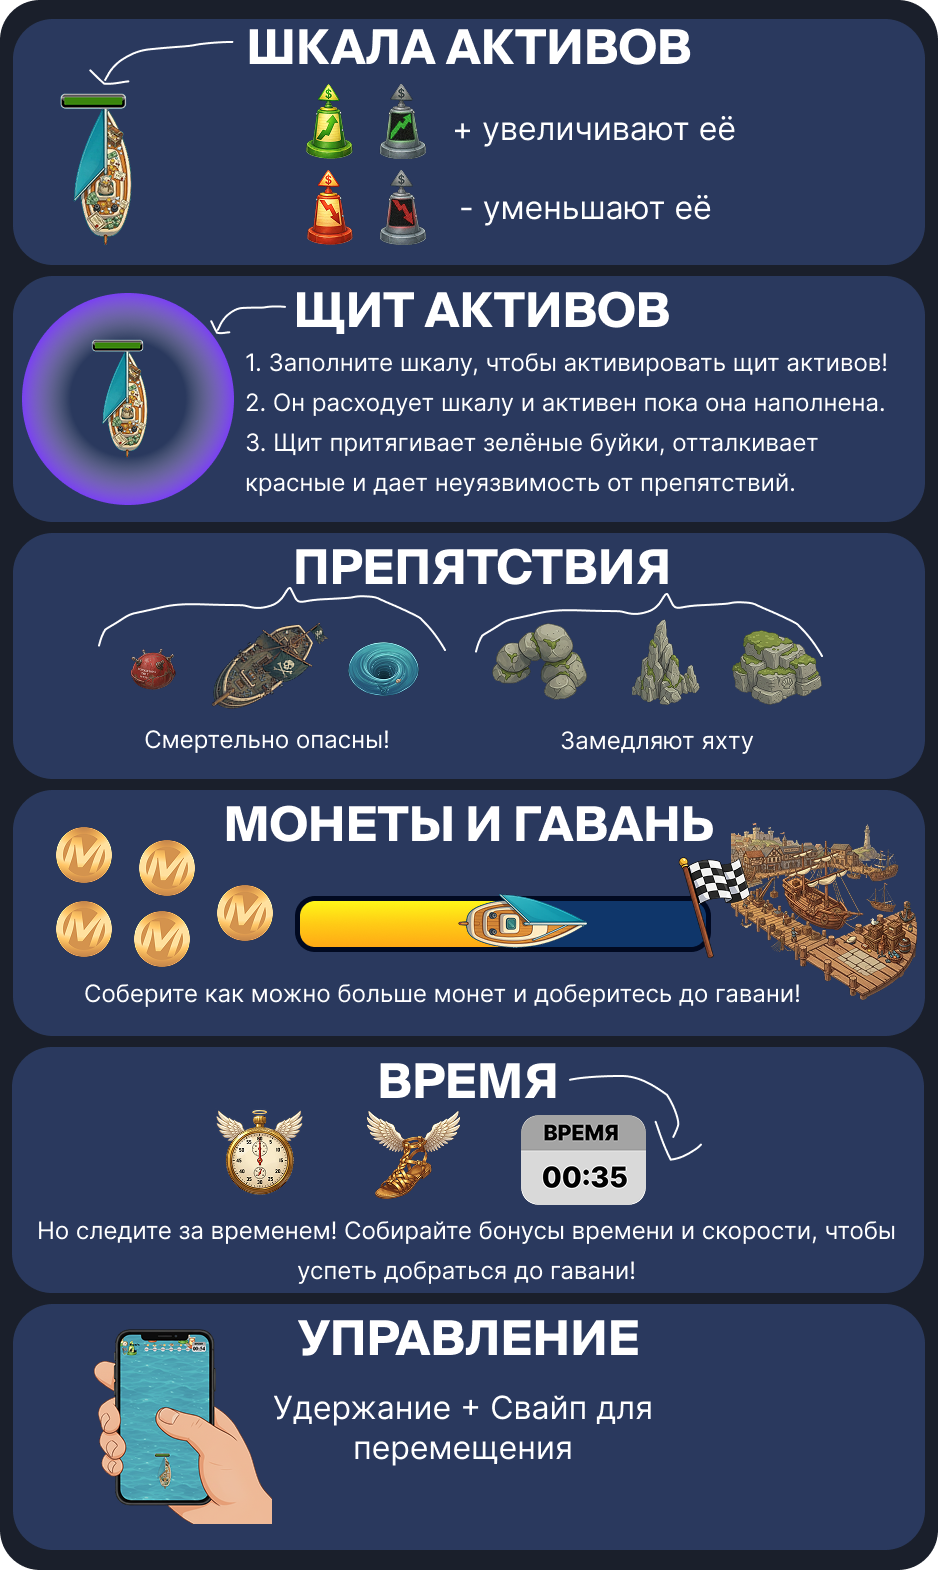
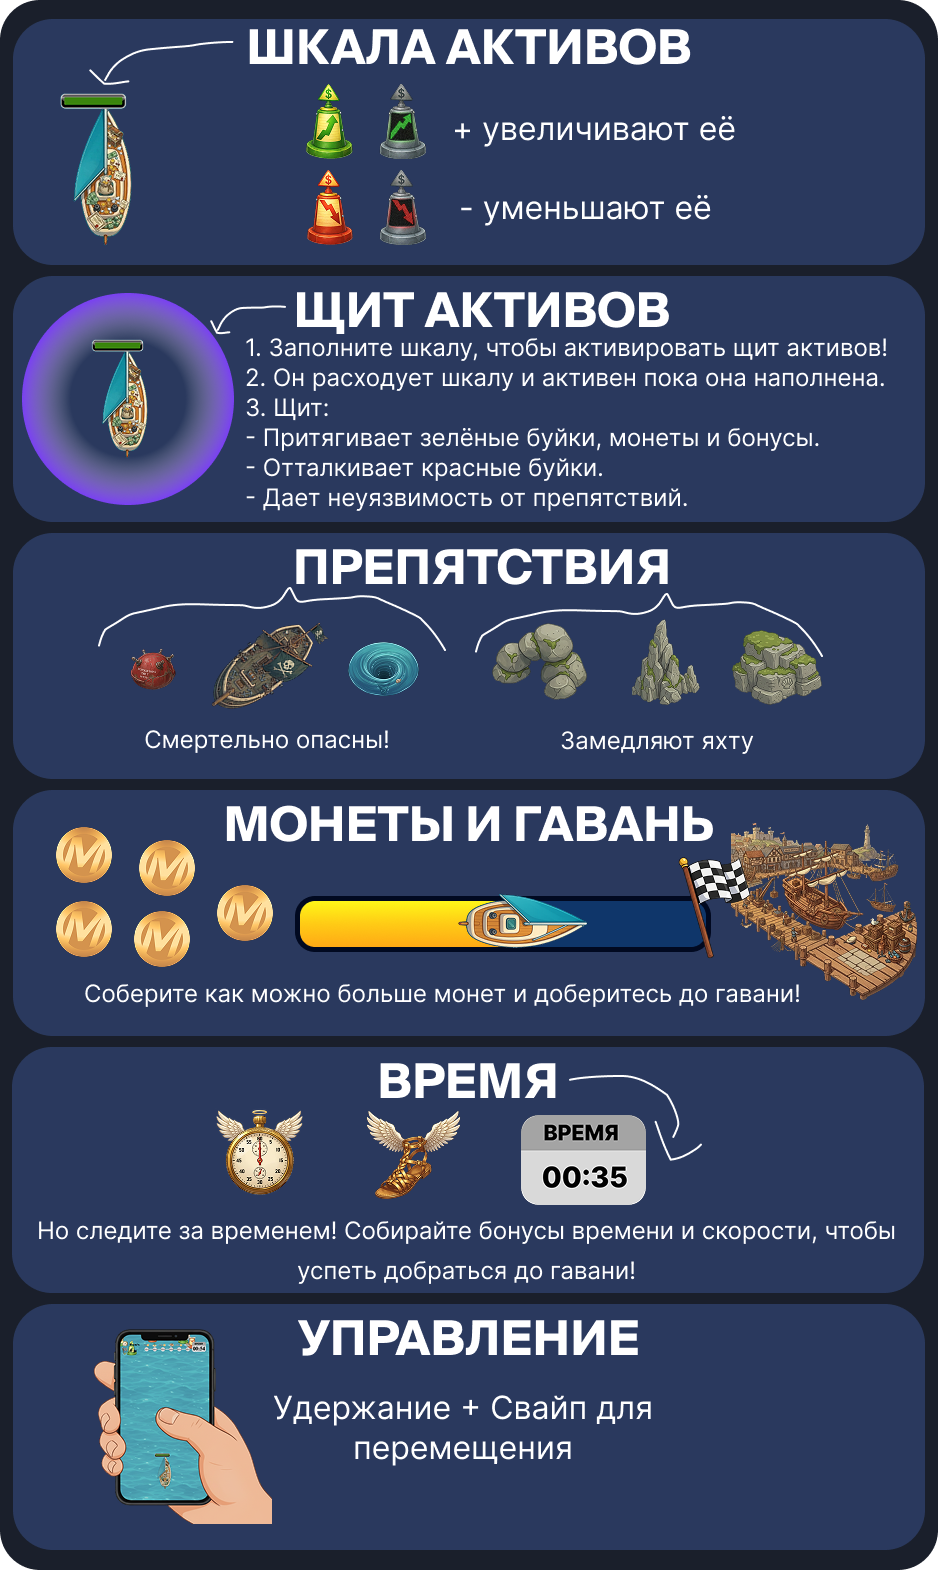
Shield changes

Changed region(s): [[0.2473, 0.2185, 0.9584, 0.3433]]

diff --git a/src/scenes/GameScene.ts b/src/scenes/GameScene.ts
@@ -71,7 +71,18 @@ type DynamicBuoyGameplayState = "up" | "down";
 type DynamicBuoyVisualState = DynamicBuoyGameplayState | "no";
 type ShieldButtonState = "disabled" | "ready" | "active";
 type ShieldHazardKey = (typeof ASSET_SHIELD_CONFIG.invulnerability.affectedHazards)[number];
+type ShieldPickupMagnetTargetKey = "coin" | "timeBonus" | "speedBonus";
 type BuoyCollisionActorType = "moneyUp" | HazardType;
+type ShieldPickupMagnetResolvedConfig = {
+  enabled: boolean;
+  radiusPx: number;
+  forcePxPerSec: number;
+  falloffPower: number;
+  minDistancePx: number;
+  maxPullSpeedPxPerSec: number;
+  axisFactorX: number;
+  axisFactorY: number;
+};
 
 type EllipseHitbox = {
   radiusXRatio: number;
@@ -1459,6 +1470,7 @@ export default class GameScene extends Phaser.Scene {
     bonus.setData("yBobFrequency", config.yBobFrequencyHz);
     bonus.setData("yBobPhase", Phaser.Math.FloatBetween(config.yBobPhaseMin, config.yBobPhaseMax));
     bonus.setData("yBobOffsetPrev", 0);
+    bonus.setData("shieldPickupMagnetLastAt", Number.NEGATIVE_INFINITY);
 
     const shadow = this.add.image(bonus.x, bonus.y + config.shadowYOffset, config.shadowTextureKey);
     shadow.setDisplaySize(config.shadowWidth, config.shadowHeight);
@@ -1508,6 +1520,7 @@ export default class GameScene extends Phaser.Scene {
     coin.setData("yBobPhase", Phaser.Math.FloatBetween(COIN_CONFIG.yBobPhaseMin, COIN_CONFIG.yBobPhaseMax));
     coin.setData("yBobOffsetPrev", 0);
     coin.setData("isCoin", true);
+    coin.setData("shieldPickupMagnetLastAt", Number.NEGATIVE_INFINITY);
 
     const shadow = this.add.image(coin.x, coin.y + COIN_CONFIG.shadowYOffset, COIN_CONFIG.shadowTextureKey);
     shadow.setDisplaySize(COIN_CONFIG.shadowWidth, COIN_CONFIG.shadowHeight);
@@ -2918,6 +2931,7 @@ export default class GameScene extends Phaser.Scene {
     }
 
     this.applyShieldMagnetForces(deltaSec);
+    this.applyShieldPickupMagnetForces(deltaSec);
   }
 
   private applyMineMagnetForces(deltaSec: number) {
@@ -3070,6 +3084,125 @@ export default class GameScene extends Phaser.Scene {
         );
       }
     });
+  }
+
+  private applyShieldPickupMagnetForces(deltaSec: number) {
+    if (!this.yachtBody) {
+      return;
+    }
+
+    const pickupMagnetCfg = ASSET_SHIELD_CONFIG.pickupMagnet;
+    if (!ASSET_SHIELD_CONFIG.enable || !this.shieldActive || !pickupMagnetCfg.enabled) {
+      return;
+    }
+
+    const body = this.yachtBody.body as Phaser.Physics.Arcade.Body | undefined;
+    const originX = (body ? body.center.x : this.yachtBody.x) + pickupMagnetCfg.anchorOffsetX;
+    const originY = (body ? body.center.y : this.yachtBody.y) + pickupMagnetCfg.anchorOffsetY;
+
+    const coinCfg = this.resolvePickupMagnetTargetConfig("coin");
+    if (coinCfg.enabled) {
+      this.coins.children.each((child) => {
+        const sprite = child as Phaser.Physics.Arcade.Sprite;
+        this.applyShieldPickupMagnetToSprite(sprite, originX, originY, coinCfg, deltaSec);
+      });
+    }
+
+    const timeBonusCfg = this.resolvePickupMagnetTargetConfig("timeBonus");
+    const speedBonusCfg = this.resolvePickupMagnetTargetConfig("speedBonus");
+    this.timeBonuses.children.each((child) => {
+      const sprite = child as Phaser.Physics.Arcade.Sprite;
+      const bonusType = (sprite.getData("bonusType") as AirBonusType | undefined) ?? "time";
+      const targetCfg = bonusType === "speed" ? speedBonusCfg : timeBonusCfg;
+      if (!targetCfg.enabled) {
+        return;
+      }
+      this.applyShieldPickupMagnetToSprite(sprite, originX, originY, targetCfg, deltaSec);
+    });
+  }
+
+  private resolvePickupMagnetTargetConfig(targetKey: ShieldPickupMagnetTargetKey): ShieldPickupMagnetResolvedConfig {
+    const pickupMagnetCfg = ASSET_SHIELD_CONFIG.pickupMagnet;
+    const commonCfg = pickupMagnetCfg.common;
+    const targetCfg = pickupMagnetCfg.targets[targetKey];
+    return {
+      enabled: targetCfg.enabled,
+      radiusPx: targetCfg.radiusPx ?? commonCfg.radiusPx,
+      forcePxPerSec: targetCfg.forcePxPerSec ?? commonCfg.forcePxPerSec,
+      falloffPower: targetCfg.falloffPower ?? commonCfg.falloffPower,
+      minDistancePx: targetCfg.minDistancePx ?? commonCfg.minDistancePx,
+      maxPullSpeedPxPerSec: targetCfg.maxPullSpeedPxPerSec ?? commonCfg.maxPullSpeedPxPerSec,
+      axisFactorX: targetCfg.axisFactorX ?? commonCfg.axisFactorX,
+      axisFactorY: targetCfg.axisFactorY ?? commonCfg.axisFactorY,
+    };
+  }
+
+  private applyShieldPickupMagnetToSprite(
+    sprite: Phaser.Physics.Arcade.Sprite,
+    originX: number,
+    originY: number,
+    targetCfg: ShieldPickupMagnetResolvedConfig,
+    deltaSec: number,
+  ) {
+    if (!sprite.active) {
+      return;
+    }
+
+    const pickupMagnetCfg = ASSET_SHIELD_CONFIG.pickupMagnet;
+    if (!pickupMagnetCfg.allowWhileCollecting && sprite.getData("collecting")) {
+      return;
+    }
+
+    if (pickupMagnetCfg.updateCooldownMs > 0) {
+      const now = this.time.now;
+      const lastAt = (sprite.getData("shieldPickupMagnetLastAt") as number | undefined) ?? Number.NEGATIVE_INFINITY;
+      if (now - lastAt < pickupMagnetCfg.updateCooldownMs) {
+        return;
+      }
+      sprite.setData("shieldPickupMagnetLastAt", now);
+    }
+
+    const body = sprite.body as Phaser.Physics.Arcade.Body | undefined;
+    const centerX = body ? body.center.x : sprite.x;
+    const centerY = body ? body.center.y : sprite.y;
+    const dx = centerX - originX;
+    const dy = centerY - originY;
+    const distance = Math.hypot(dx, dy);
+    const radiusPx = Math.max(0, targetCfg.radiusPx);
+    const minDistancePx = Math.max(0, targetCfg.minDistancePx);
+    if (distance <= Math.max(1, minDistancePx) || distance > radiusPx) {
+      return;
+    }
+
+    const falloffBase = 1 - distance / radiusPx;
+    const falloff = Math.pow(Math.max(0, falloffBase), Math.max(0.05, targetCfg.falloffPower));
+    const impulse = targetCfg.forcePxPerSec * falloff * deltaSec;
+    if (impulse <= 0) {
+      return;
+    }
+
+    const maxStep = Math.max(0, targetCfg.maxPullSpeedPxPerSec) * deltaSec;
+    const step = maxStep > 0 ? Math.min(impulse, maxStep) : impulse;
+    if (step <= 0) {
+      return;
+    }
+
+    const nx = -dx / distance;
+    const ny = -dy / distance;
+    let nextX = sprite.x + nx * step * targetCfg.axisFactorX;
+    let nextY = sprite.y + ny * step * targetCfg.axisFactorY;
+
+    if (pickupMagnetCfg.common.clampToPlayAreaX) {
+      const clampPaddingX = Math.max(0, pickupMagnetCfg.common.clampPaddingX);
+      nextX = Phaser.Math.Clamp(nextX, this.playAreaLeft - clampPaddingX, this.playAreaRight + clampPaddingX);
+    }
+
+    if (pickupMagnetCfg.common.clampToViewportY) {
+      const clampPaddingY = Math.max(0, pickupMagnetCfg.common.clampPaddingY);
+      nextY = Phaser.Math.Clamp(nextY, -clampPaddingY, this.scale.height + clampPaddingY);
+    }
+
+    sprite.setPosition(nextX, nextY);
   }
 
   private applyShieldMagnetForceToSprite(

diff --git a/src/config/tuning.ts b/src/config/tuning.ts
@@ -225,6 +225,58 @@ export const ASSET_SHIELD_CONFIG = {
     repelFalloffPower: 0.5,
     maxPushSpeedPxPerSec: 5000,
   },
+  pickupMagnet: {
+    enabled: true,
+    allowWhileCollecting: false,
+    anchorOffsetX: 0,
+    anchorOffsetY: 0,
+    updateCooldownMs: 0,
+    common: {
+      radiusPx: 300,
+      forcePxPerSec: 1800,
+      falloffPower: 0.9,
+      minDistancePx: 14,
+      maxPullSpeedPxPerSec: 960,
+      axisFactorX: 1,
+      axisFactorY: 1,
+      clampToPlayAreaX: true,
+      clampPaddingX: 36,
+      clampToViewportY: true,
+      clampPaddingY: 60,
+    },
+    targets: {
+      coin: {
+        enabled: true,
+        radiusPx: 300,
+        forcePxPerSec: 1900,
+        falloffPower: 0.9,
+        minDistancePx: 12,
+        maxPullSpeedPxPerSec: 980,
+        axisFactorX: 1,
+        axisFactorY: 1,
+      },
+      timeBonus: {
+        enabled: true,
+        radiusPx: 320,
+        forcePxPerSec: 1700,
+        falloffPower: 1,
+        minDistancePx: 14,
+        maxPullSpeedPxPerSec: 900,
+        axisFactorX: 1,
+        axisFactorY: 1,
+      },
+      speedBonus: {
+        enabled: true,
+        radiusPx: 340,
+        forcePxPerSec: 1600,
+        falloffPower: 1.05,
+        minDistancePx: 16,
+        maxPullSpeedPxPerSec: 860,
+        axisFactorX: 1,
+        axisFactorY: 1,
+      },
+    },
+  },
   visual: {
     radiusPx: 250,
     thicknessPx: 70,
